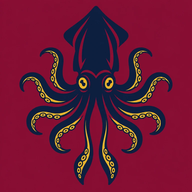
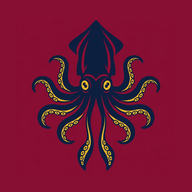
Fiks maskable PWA-ikon uten hvit ramme på Android

Changed region(s): [[0.0938, 0.0312, 0.9062, 0.9688]]

diff --git a/sw.js b/sw.js
@@ -1,4 +1,4 @@
-const CACHE_NAME = 'akkar-pwa-v1';
+const CACHE_NAME = 'akkar-pwa-v2';
 
 self.addEventListener('install', (event) => {
   self.skipWaiting();
